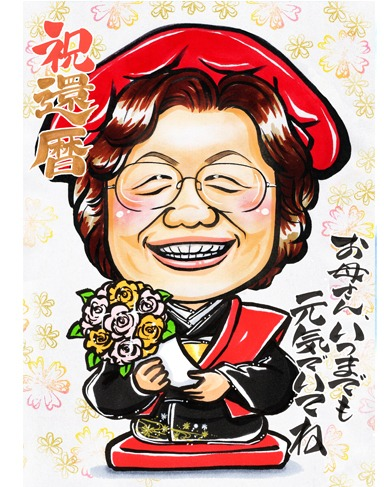
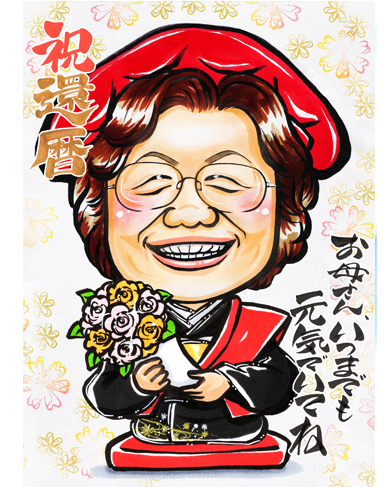
Refresh c_touch_sample.jpg and add related columns section
Replace c_touch_sample.jpg with the freshly supplied source file
(same artwork, avoids an extra re-encoding pass). Add a "関連コラム"
section near the end of the article linking to the nigaoe
selection-guide and choju present columns on natsumikan.shop.

diff --git a/column/kanreki-josei-gift-guide/index.html b/column/kanreki-josei-gift-guide/index.html
@@ -391,6 +391,17 @@ a.banner img, a.cta-img img{
 .sum-list li::before{content:"✅";position:absolute;left:0;top:7px;font-size:14px}
 .sum-list strong{color:var(--org-d)}
 
+/* ── RELATED COLUMNS ── */
+.related-list{list-style:none;padding:0;margin:0}
+.related-list li{border-bottom:1px dotted var(--bd)}
+.related-list li:last-child{border-bottom:none}
+.related-list li a{
+  display:flex;align-items:center;justify-content:space-between;gap:10px;
+  padding:12px 4px;font-size:13.5px;font-weight:700;color:#222;line-height:1.6;
+}
+.related-list li a::after{content:"›";color:var(--org);font-size:20px;font-weight:700;flex-shrink:0}
+.related-list li a:hover{color:var(--org)}
+
 /* ── DIVIDER ── */
 .div-band{
   background:var(--org-m);border-top:1px solid var(--bd);border-bottom:1px solid var(--bd);
@@ -858,6 +869,19 @@ height="0" width="0" style="display:none;visibility:hidden"></iframe></noscript>
         <li><strong>NGギフト・忌み言葉に注意</strong>——弔事を連想させるもの、現金・商品券は避けるのが無難</li>
         <li><strong>体験ギフトやオーダーメイドも選択肢に</strong>——モノより思い出、既製品にはない特別感を届けられる</li>
         <li><strong>手描き似顔絵は形に残る記念として人気</strong>——注文先は誇張のなさ・品質の安定・明朗会計・納期・事前確認の5つで選ぶと失敗しにくい</li>
+      </ul>
+    </div>
+  </section>
+
+  <!-- RELATED COLUMNS -->
+  <section class="sec" id="related">
+    <h2 class="sec-hd-plain" style="border-radius:var(--radius) var(--radius) 0 0;border-left:4px solid var(--org)">
+      関連コラム
+    </h2>
+    <div class="sec-body" style="border-radius:0 0 var(--radius) var(--radius)">
+      <ul class="related-list">
+        <li><a href="https://www.natsumikan.shop/column/kanreki-present-nigaoe/" target="_blank">還暦祝いの似顔絵で失敗しない5つの選び方【専門店が解説】</a></li>
+        <li><a href="https://www.natsumikan.shop/column/choju-present-nigaoe/" target="_blank">還暦・古希・米寿の長寿祝いプレゼントで失敗しない「唯一の正解」</a></li>
       </ul>
     </div>
   </section>
